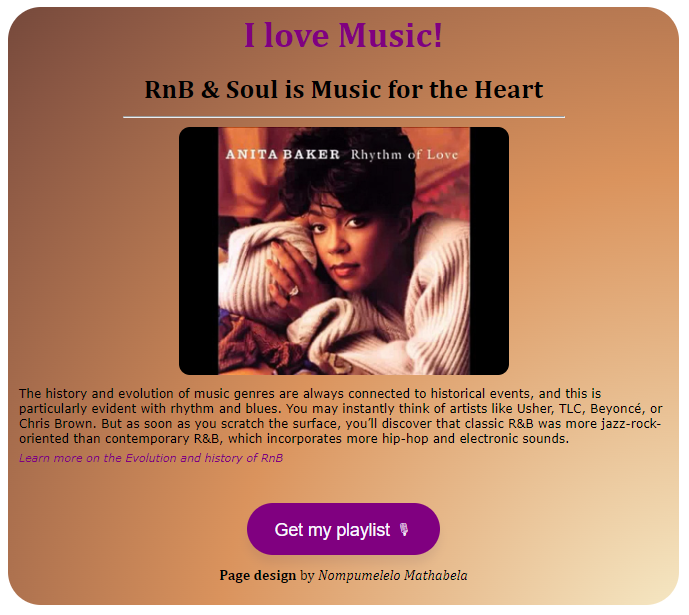
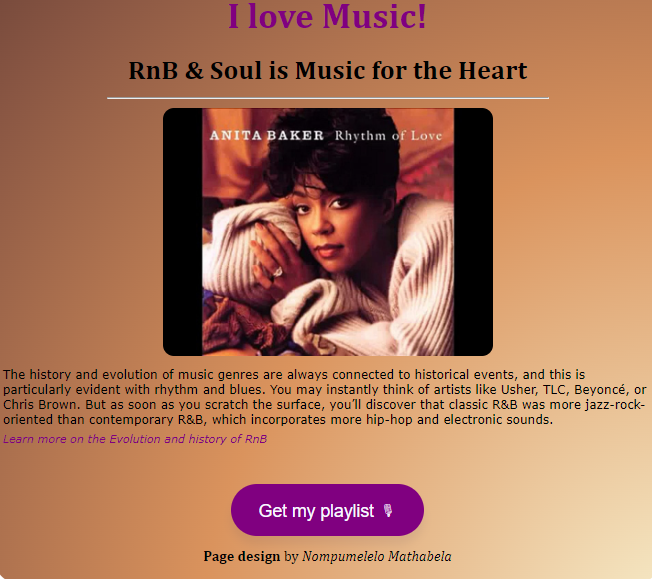
updated my work page and fixed appearance of photos

Changed region(s): [[0.0, 0.0, 1.0, 1.0]]

diff --git a/mywork.html b/mywork.html
@@ -1,22 +1,145 @@
 <!DOCTYPE html>
 <html lang="en">
-<head>
-    <meta charset="UTF-8">
-    <meta name="viewport" content="width=device-width, initial-scale=1.0">
-    <title>Document</title>
+  <head>
+    <meta charset="UTF-8" />
+    <meta name="viewport" content="width=device-width, initial-scale=1.0" />
+    <title>My Work My Passion</title>
     <link
       href="https://cdn.jsdelivr.net/npm/bootstrap@5.3.2/dist/css/bootstrap.min.css"
       rel="stylesheet"
       integrity="sha384-T3c6CoIi6uLrA9TneNEoa7RxnatzjcDSCmG1MXxSR1GAsXEV/Dwwykc2MPK8M2HN"
       crossorigin="anonymous"
     />
-    <link rel="stylesheet" href="src/styles.css">
-</head>
-<body>
-   <script
+    <script
       src="https://cdn.jsdelivr.net/npm/bootstrap@5.3.2/dist/js/bootstrap.bundle.min.js"
       integrity="sha384-C6RzsynM9kWDrMNeT87bh95OGNyZPhcTNXj1NW7RuBCsyN/o0jlpcV8Qyq46cDfL"
       crossorigin="anonymous"
-    ></script> 
-</body>
+    ></script>
+    <script
+      src="https://kit.fontawesome.com/f515a0f556.js"
+      crossorigin="anonymous"
+    ></script>
+    <link rel="preconnect" href="https://fonts.googleapis.com" />
+    <link rel="preconnect" href="https://fonts.gstatic.com" crossorigin />
+    <link
+      href="https://fonts.googleapis.com/css2?family=Lobster&family=Playfair+Display:wght@700&family=Poppins:wght@400;700&family=Sigmar&display=swap"
+      rel="stylesheet"
+    />
+    <link rel="stylesheet" href="src/styles.css" />
+  </head>
+  <body>
+    <div class="hero">
+      <h2>My Work, My Passion</h2>
+      <h1>Nompumelelo Mathabela</h1>
+      <h3>
+        Frontend Developer,Social Justice Activist, Social Entrepreneur based in
+        South Africa
+      </h3>
+    </div>
+
+    <div class="container">
+      <div class="row mb-5">
+        <div class="col d-none d-lg-block">
+          <img
+            class="mt-5"
+            src="images/weatherapp.png "
+            class="img-fluid"
+            alt="weather app screenshot"
+          />
+        </div>
+        <div class="col">
+          <div class="project-text">
+            <h2 class="content-heading mt-5 mb-3">The Frontend Developer</h2>
+            <p class="mb-5 text-muted">
+              In 2023 I got the opportunity to become part of a global coding
+              family of amazing women. Supported by the SheCodes Foundation and
+              taught by Matt Delac, the CEO of SHECodes and an amazing frontend
+              developer from Toulon, France. During this time, I have learned to
+              design my own weather app, a music website. I am currently
+              learning to develop responsive multi-page websites and it is an
+              amazing journey!
+            </p>
+            <a
+              href="https://illustrious-fairy-d24298.netlify.app/"
+              target="_blank"
+              class="btn btn-content"
+              >View my Weather App</a
+            >
+          </div>
+        </div>
+      </div>
+
+      <div class="row mb-5">
+        <div class="col">
+          <div class="project-text">
+            <h2 class="content-heading mb-3 mt-5">
+              The Social Justice Activist
+            </h2>
+            <p class="mb-5 text-muted">
+              A world where women are free to walk the streets, choose what they
+              want to wear, who they want to be with, how many children they
+              want to have if any, is a world I work towards daily. Women
+              deserve the same opportunities, pleasures and freedoms in this
+              world so that they can be the best versions of themselves. Ending
+              gender-based violence and creating an alternative world for women
+              is a passion I have. I do this work through the organisation I
+              work for, the 1in9 Campaign, a feminist advocacy organisation that
+              works towards building a violent free world for women and
+              children.
+            </p>
+            <a
+              href="https://illustrious-fairy-d24298.netlify.app/"
+              class="btn btn-content"
+              >View my Activist work</a
+            >
+          </div>
+        </div>
+        <div class="col d-none d-lg-block">
+          <img
+            class="bg-block mt-5"
+            src="images/1in9campaign.png"
+            class="img-fluid"
+            alt="photo of @1in9_campaign's work"
+          />
+        </div>
+
+
+        <div class="row mt-5">
+      <div class="col d-none d-lg-block">
+        <img
+          class="mt-5"
+          src="images/tagged.png"
+          class="img-fluid"
+          alt="tagged instagram screenshot"
+        />
+      </div>
+      <div class="col">
+        <div class="project-text">
+          <h2 class="content-heading mt-5 mb-3">The Social Entrepreneur</h2>
+          <p class="mb-5 text-muted">
+            In my life's journey, the other thing I fell in love with was graphic design. Then through my activism, I discovered silk screening, a form of printing. I was inspired to start my own printing business and shared the skills I had learned with more women. The business is not my full-time job yet but I plan to build it to an empire that will create more job opportunities, in a county where these are dwindling. We also sell PRIDE merchandise to celebrate the LGBTIAQ+ community.
+          </p>
+          <a
+            href="https://www.instagram.com/taggd_designs/"
+            target="_blank"
+            class="btn btn-content mb-5" 
+            >View My Business</a
+          >
+      </div>
+    </div>
+
+    <hr />
+    <p class="footer">Contact Me on Social Media:</p>
+    <div class="footer m-5">
+      <a href="https://www.facebook.com/mpumi.mathabela"
+        ><i class="fa-brands fa-facebook fa-2xl"></i
+      ></a>
+      <a href="https://www.instagram.com/sky_ka_sodiza/"
+        ><i class="fa-brands fa-instagram fa-2xl"></i
+      ></a>
+      <a href="https://twitter.com/Mpumstar"
+        ><i class="fa-brands fa-twitter fa-2xl"></i
+      ></a>
+    </div>
+  </body>
 </html>

diff --git a/index.html b/index.html
@@ -31,7 +31,7 @@
     <div class="hero">
       <h2>Hi I am</h2>
       <h1>Nompumelelo Mathabela</h1>
-      <h3 class="mb-5">Frontend Developer, based in South Africa</h3>
+      <h3 class="mb-5">Frontend Developer,Social Justice Activist, Social Entrepreneur based in South Africa</h3>
       <a href="about.html" class="btn btn-style">Get to know me</a>
     </div>
     <p class="introduction-text m-5">Featuring my best projects for this year:</p>
@@ -71,7 +71,7 @@
               also required by meteorologists to develop those weather forecasts
               with which we are all familiar.
             </p>
-            <a href="#" class="btn btn-content">View detailed project</a>
+            <a href="https://illustrious-fairy-d24298.netlify.app/" class="btn btn-content">View detailed project</a>
           </div>
         </div>
         <div class="col d-none d-lg-block">
@@ -83,13 +83,18 @@
         </div>
       </div>
       <hr>
-      <p class="footer"> Contact Me on Social Media:</p>
-      <div class="footer m-5"><i class="fa-brands fa-facebook fa-2xl mb-5"></i>
-      <i class="fa-brands fa-instagram fa-2xl"></i>
-    
-      <i class="fa-brands fa-twitter fa-2xl"></i>
-      
-      </div>
+      <p class="footer">Contact Me on Social Media:</p>
+    <div class="footer m-5">
+      <a href="https://www.facebook.com/mpumi.mathabela"
+        ><i class="fa-brands fa-facebook fa-2xl"></i
+      ></a>
+      <a href="https://www.instagram.com/sky_ka_sodiza/"
+        ><i class="fa-brands fa-instagram fa-2xl"></i
+      ></a>
+      <a href="https://twitter.com/Mpumstar"
+        ><i class="fa-brands fa-twitter fa-2xl"></i
+      ></a>
+    </div>
     </div>
    
   </body>

diff --git a/about.html b/about.html
@@ -54,7 +54,7 @@
       building apps and software that can assist in the fight for social justice
       in my country and globally.
     </p>
-    <a href="#" class="btn btn-style mb-5">View my work</a>
+    <a href="mywork.html" class="btn btn-style mb-5">View my work</a>
     </div>
     
     </div>
@@ -63,11 +63,17 @@
     </div>
    
     <hr>
-      <p class="footer"> Contact Me on Social Media:</p>
-      <div class="footer m-5"><i class="fa-brands fa-facebook fa-2xl mb-5"></i>
-      <i class="fa-brands fa-instagram fa-2xl"></i>
-      <i class="fa-brands fa-twitter fa-2xl"></i>
-      
-      </div>
+      <p class="footer">Contact Me on Social Media:</p>
+    <div class="footer m-5">
+      <a href="https://www.facebook.com/mpumi.mathabela"
+        ><i class="fa-brands fa-facebook fa-2xl"></i
+      ></a>
+      <a href="https://www.instagram.com/sky_ka_sodiza/"
+        ><i class="fa-brands fa-instagram fa-2xl"></i
+      ></a>
+      <a href="https://twitter.com/Mpumstar"
+        ><i class="fa-brands fa-twitter fa-2xl"></i
+      ></a>
+    </div>
   </body>
 </html>

diff --git a/src/styles.css b/src/styles.css
@@ -22,6 +22,7 @@ img {
   width: 500px;
   border-radius:15px;
   margin: 0 auto;
+  box-shadow: 10px 10px 5px grey;
 }
 
 .introduction-text {
@@ -93,8 +94,6 @@ p {
   .project-text {
     text-align: center;
   }
-  img {
-    size: 100px;
-  }
+  
 }
 
